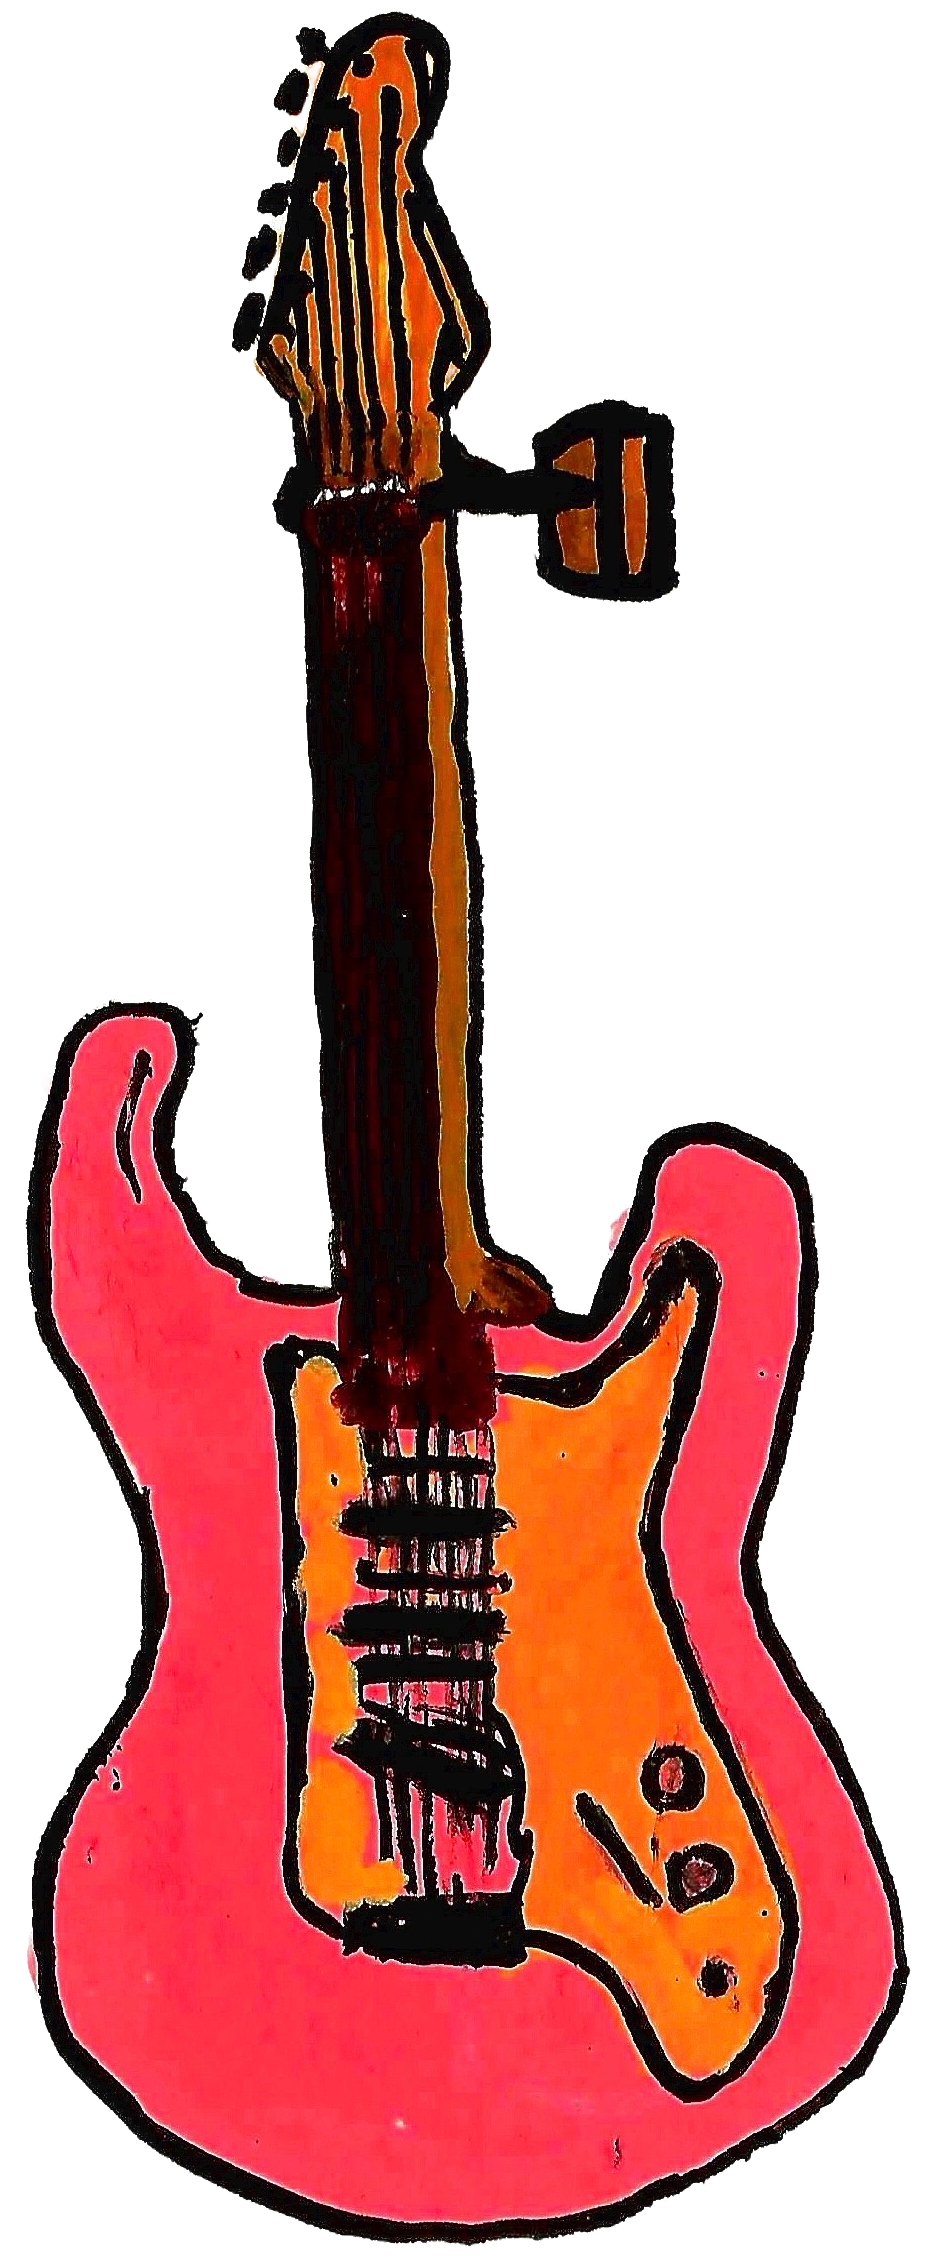
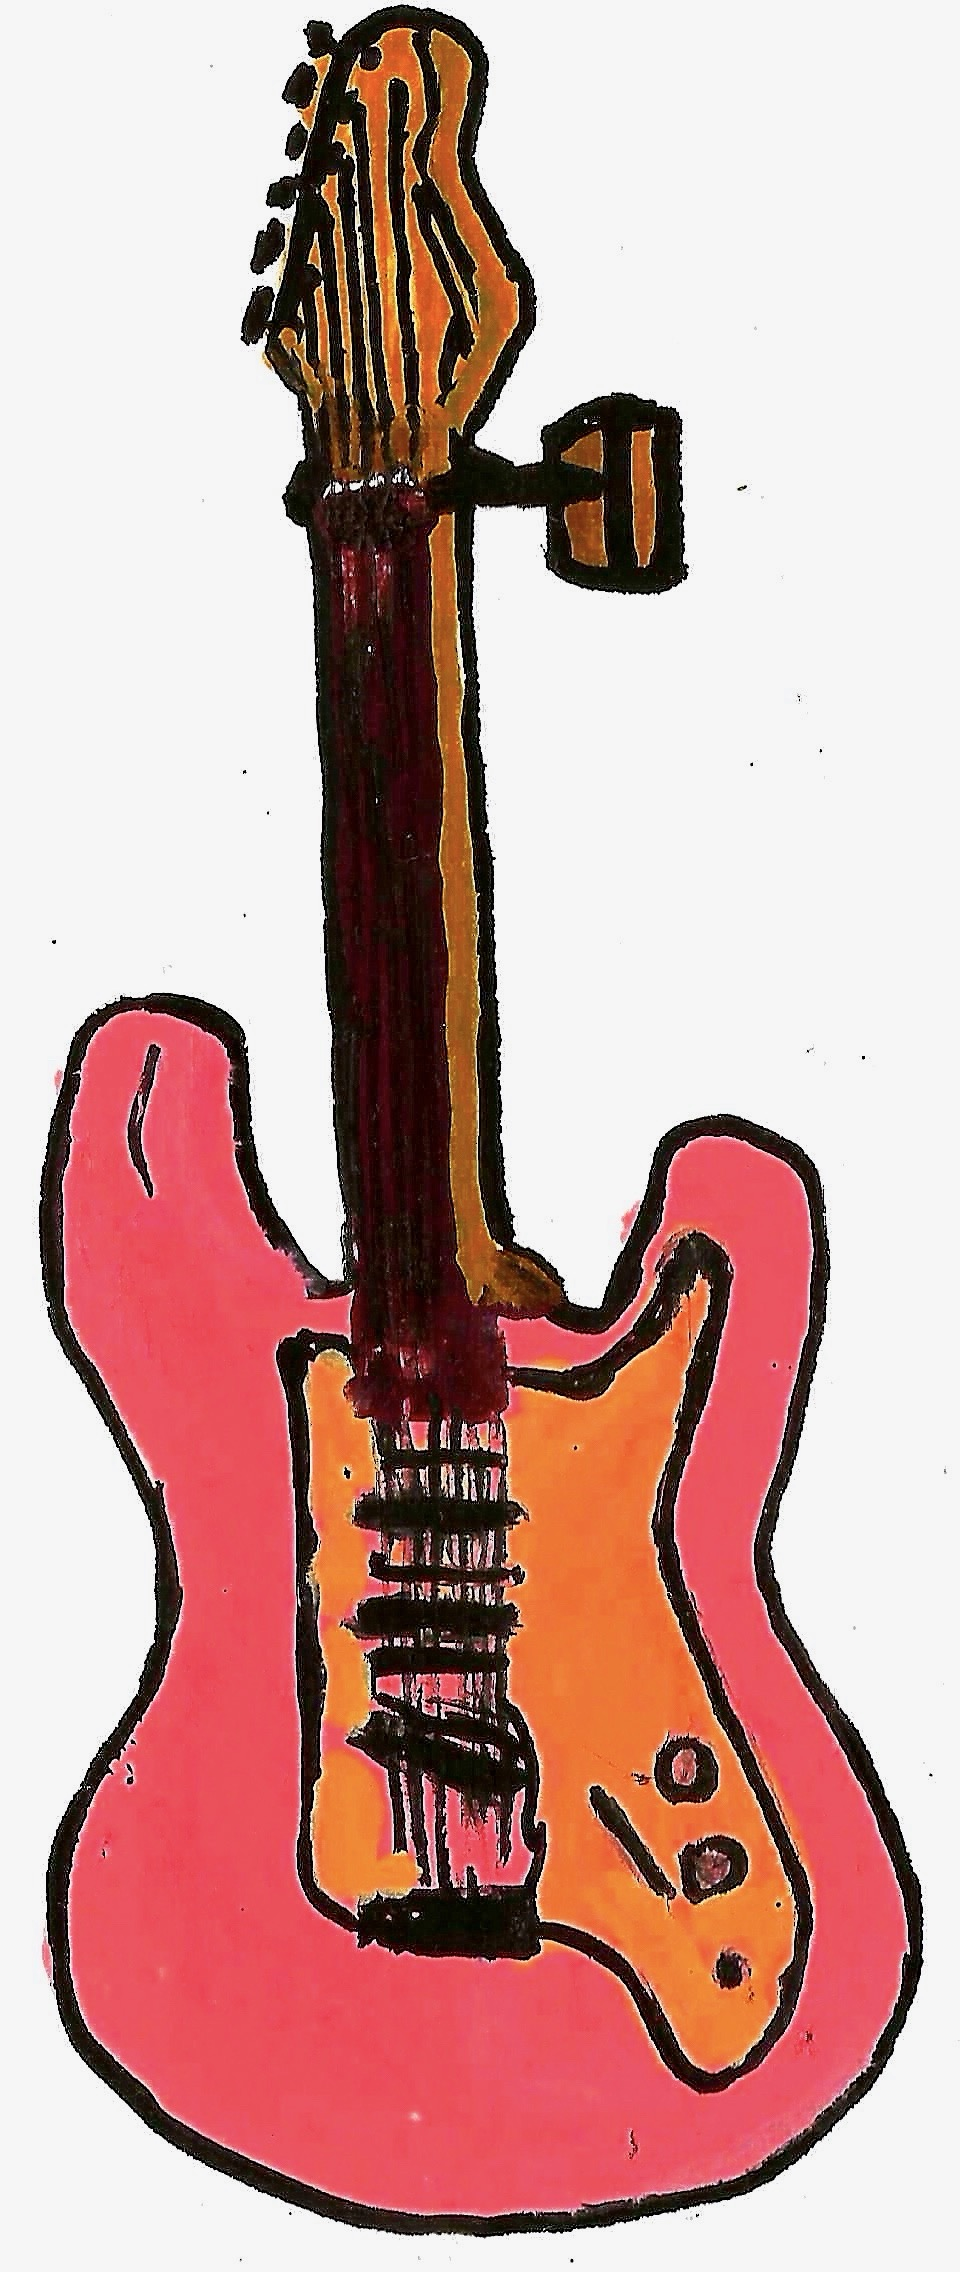
Griffin tries nextjs gallery page

diff --git a/src/app/styles/globals.css b/src/app/styles/globals.css
@@ -253,6 +253,52 @@
   gap: 5px;
 }
 
+header {
+  position: fixed;
+  top: 0;
+  left: 0;
+  width: 100%;
+  z-index: 1;
+
+  display: flex;
+  justify-content: space-between;
+  padding: 48px;
+}
+
+@media (max-width: 600px) {
+  body {
+    font-size: 24px;
+  }
+
+  header {
+    flex-direction: column;
+    align-items: flex-start;
+  }
+
+  section div.world {
+    grid-gap: 32px;
+  }
+
+  section img {
+    width: 300px;
+  }
+}
+
+header a {
+  color: #ffffff;
+  text-decoration: none;
+  border-bottom: 2px solid rgba(255, 255, 255, 0.5);
+}
+
+body {
+  font-family: Necto Mono;
+  font-size: 32px;
+  line-height: 1.5;
+
+  background-color: #111118;
+  color: #ffffff;
+}
+
 #paintings:hover {
   cursor: pointer;
 }
@@ -293,6 +339,32 @@
   background-repeat: no-repeat;
 }
 
+.fill {
+  display: flex;
+  justify-content: center;
+  align-items: center;
+  overflow: hidden
+}
+
+.fill img {
+  flex-shrink: 0;
+  min-width: 100%;
+  min-height: 100%
+}
+
+#borderimg1 {
+  border: 13px solid transparent;
+  border-image: url("../../assets/pixil-frame-0.png") 16 round;
+  position: relative;
+}
+
+#testpainting {
+  position: relative;
+  width: 250px;
+  min-height: 100%;
+  content: url("../../assets/Desk/desk.png");
+}
+
 #overlay-dark {
   position: absolute;
   left: 0;
@@ -300,12 +372,13 @@
   height: 100vh;
   display: flex;
   justify-content: center;
-  background: radial-gradient(
-    ellipse closest-side at 15% 60%,
-    /* Light at bottom-right corner */ rgba(255, 255, 255, 0) 0%,
-    /* Transparent in the corner */ rgba(0, 0, 0, 0.83) 80%
+  background: radial-gradient(ellipse closest-side at 15% 60%,
+      /* Light at bottom-right corner */
+      rgba(255, 255, 255, 0) 0%,
+      /* Transparent in the corner */
+      rgba(0, 0, 0, 0.83) 80%
       /* rgba(0, 0, 0, 1) 50%  */
-  );
+    );
   align-items: center;
   pointer-events: none;
   z-index: 1;

diff --git a/src/components/gallerywall/GalleryWall.tsx b/src/components/gallerywall/GalleryWall.tsx
@@ -1,0 +1,62 @@
+import React, { FC, ReactElement } from "react";
+import Head from 'next/head';
+import Image from 'next/image'
+import Script from 'next/script'
+import Link from 'next/link'
+import './GalleryWall.module.css'
+
+const GalleryWall: FC = (): ReactElement => {
+  return (
+    <div>
+      <Head>
+        <meta name="generator" content="SuperHi" />
+        <meta http-equiv="X-UA-Compatible" content="IE=edge" />
+        <meta name="viewport" content="width=device-width, initial-scale=1" />
+        <title>Basic Goods</title>
+        <Link rel="stylesheet" href="/GalleryWall.module.css" />
+      </Head>
+        <div>
+        <header>
+          <h1>Basic Goods</h1>
+          <a href="#">Buy now</a>
+        </header>
+        <section className="panner">
+          <div className="world">
+            <Image src="/galleryImages/galleryimage1.jpg" alt="Gallery image" width={500}
+              height={500} />
+            <Image src="/galleryImages/galleryimage2.jpg" alt="Gallery image" width={500}
+              height={500} />
+            <Image src="/galleryImages/galleryimage3.jpg" alt="Gallery image" width={500}
+              height={500} />
+            <Image src="/galleryImages/galleryimage4.jpg" alt="Gallery image" width={500}
+              height={500} />
+            <Image src="/galleryImages/galleryimage5.jpg" alt="Gallery image" width={500}
+              height={500} />
+            <Image src="/galleryImages/galleryimage6.jpg" alt="Gallery image" width={500}
+              height={500} />
+            <Image src="/galleryImages/galleryimage7.jpg" alt="Gallery image" width={500}
+              height={500} />
+            <Image src="/galleryImages/galleryimage8.jpg" alt="Gallery image" width={500}
+              height={500} />
+            <Image src="/galleryImages/galleryimage9.jpg" alt="Gallery image" width={500}
+              height={500} />
+            <Image src="/galleryImages/galleryimage10.jpg" alt="Gallery image" width={500}
+              height={500} />
+            <Image src="/galleryImages/galleryimage11.jpg" alt="Gallery image" width={500}
+              height={500} />
+            <Image src="/galleryImages/galleryimage12.jpg" alt="Gallery image" width={500}
+              height={500} />
+          </div>
+        </section>
+        </div>
+
+      {/* <script src="/superhi.js"></script> */}
+
+
+
+      <Script src="/static/pan.js"></Script>
+      </div>
+  );
+};
+
+export default GalleryWall;

diff --git a/public/static/pan.js b/public/static/pan.js
@@ -1,0 +1,49 @@
+// which tag to move
+const panTag = document.querySelector("section.panner div.world")
+
+let currentX = 0
+let currentY = 0
+let aimX = 0
+let aimY = 0
+
+const updateAim = function (event) {
+  // window width/height
+  const windowWidth = window.innerWidth
+  const windowHeight = window.innerHeight
+  
+  const worldWidth = panTag.clientWidth
+  const worldHeight = panTag.clientHeight
+  
+  // total pan size
+  const panX = worldWidth - windowWidth
+  const panY = worldHeight - windowHeight
+  
+  // percentage x/y
+  const px = event.pageX / windowWidth
+  const py = event.pageY / windowHeight
+  
+  // how much shift from the center
+  aimX = panX * px
+  aimY = panY * py
+}
+
+const animate = function () {
+  currentX += (aimX - currentX) * 0.05
+  currentY += (aimY - currentY) * 0.05
+  
+  panTag.style.left = (-1 * currentX) + "px"
+  panTag.style.top = (-1 * currentY) + "px"
+ 
+  requestAnimationFrame(animate)
+}
+
+
+animate()
+
+document.addEventListener("mousemove", function (event) {
+  updateAim(event)
+})
+
+document.addEventListener("touchmove", function (event) {
+  updateAim(event)
+})

diff --git a/src/components/gallerywall/GalleryWall.module.css b/src/components/gallerywall/GalleryWall.module.css
@@ -1,0 +1,18 @@
+section.panner {
+    width: 100vw;
+    height: 100vh;
+    overflow: hidden;
+}
+
+section.panner div.world {
+    position: absolute;
+    top: 0;
+    left: 0;
+
+    padding: 48px;
+
+    display: grid;
+    grid-template-columns: repeat(4, 600px);
+    grid-gap: 48px;
+    background-color: aqua;
+}

diff --git a/src/app/gallery/page.tsx b/src/app/gallery/page.tsx
@@ -1,0 +1,13 @@
+import React, { FC, ReactElement } from "react";
+import GalleryWall from "../../components/gallerywall/GalleryWall";
+
+const Gallery: FC = (): ReactElement => {
+  return (
+    <>
+      <GalleryWall>
+      </GalleryWall>
+    </>
+  );
+};
+
+export default Gallery;

diff --git a/src/components/Room.tsx b/src/components/Room.tsx
@@ -1,6 +1,7 @@
 import React, { FC, ReactElement } from "react";
 import LightSwitch from "./lightswitch/LightSwitch";
 import DarknessOverlay from "./DarknessOverlay";
+import Link from 'next/link';
 // import LightSwitchImage from "../../assets/lightswitch.png";
 
 const Room: FC = (): ReactElement => {
@@ -16,9 +17,13 @@ const Room: FC = (): ReactElement => {
           <div id="guitar-main"></div>
 
           <figure className="n"></figure>
+          <div className="fill" id="borderimg1">
+            <div id="testpainting"></div>
+          </div>
           <figure className="e"></figure>
           <figure className="w">
             <LightSwitch />
+            <Link href="/gallery">
             <div id="paintings">
               <div id="painting-4"></div>
               <div className="flex flex-col">
@@ -27,6 +32,7 @@ const Room: FC = (): ReactElement => {
               </div>
               <div id="painting-3"></div>
             </div>
+            </Link>
             {/* <div id="computer-desk-2"></div> */}
           </figure>
           <figure className="b"></figure>